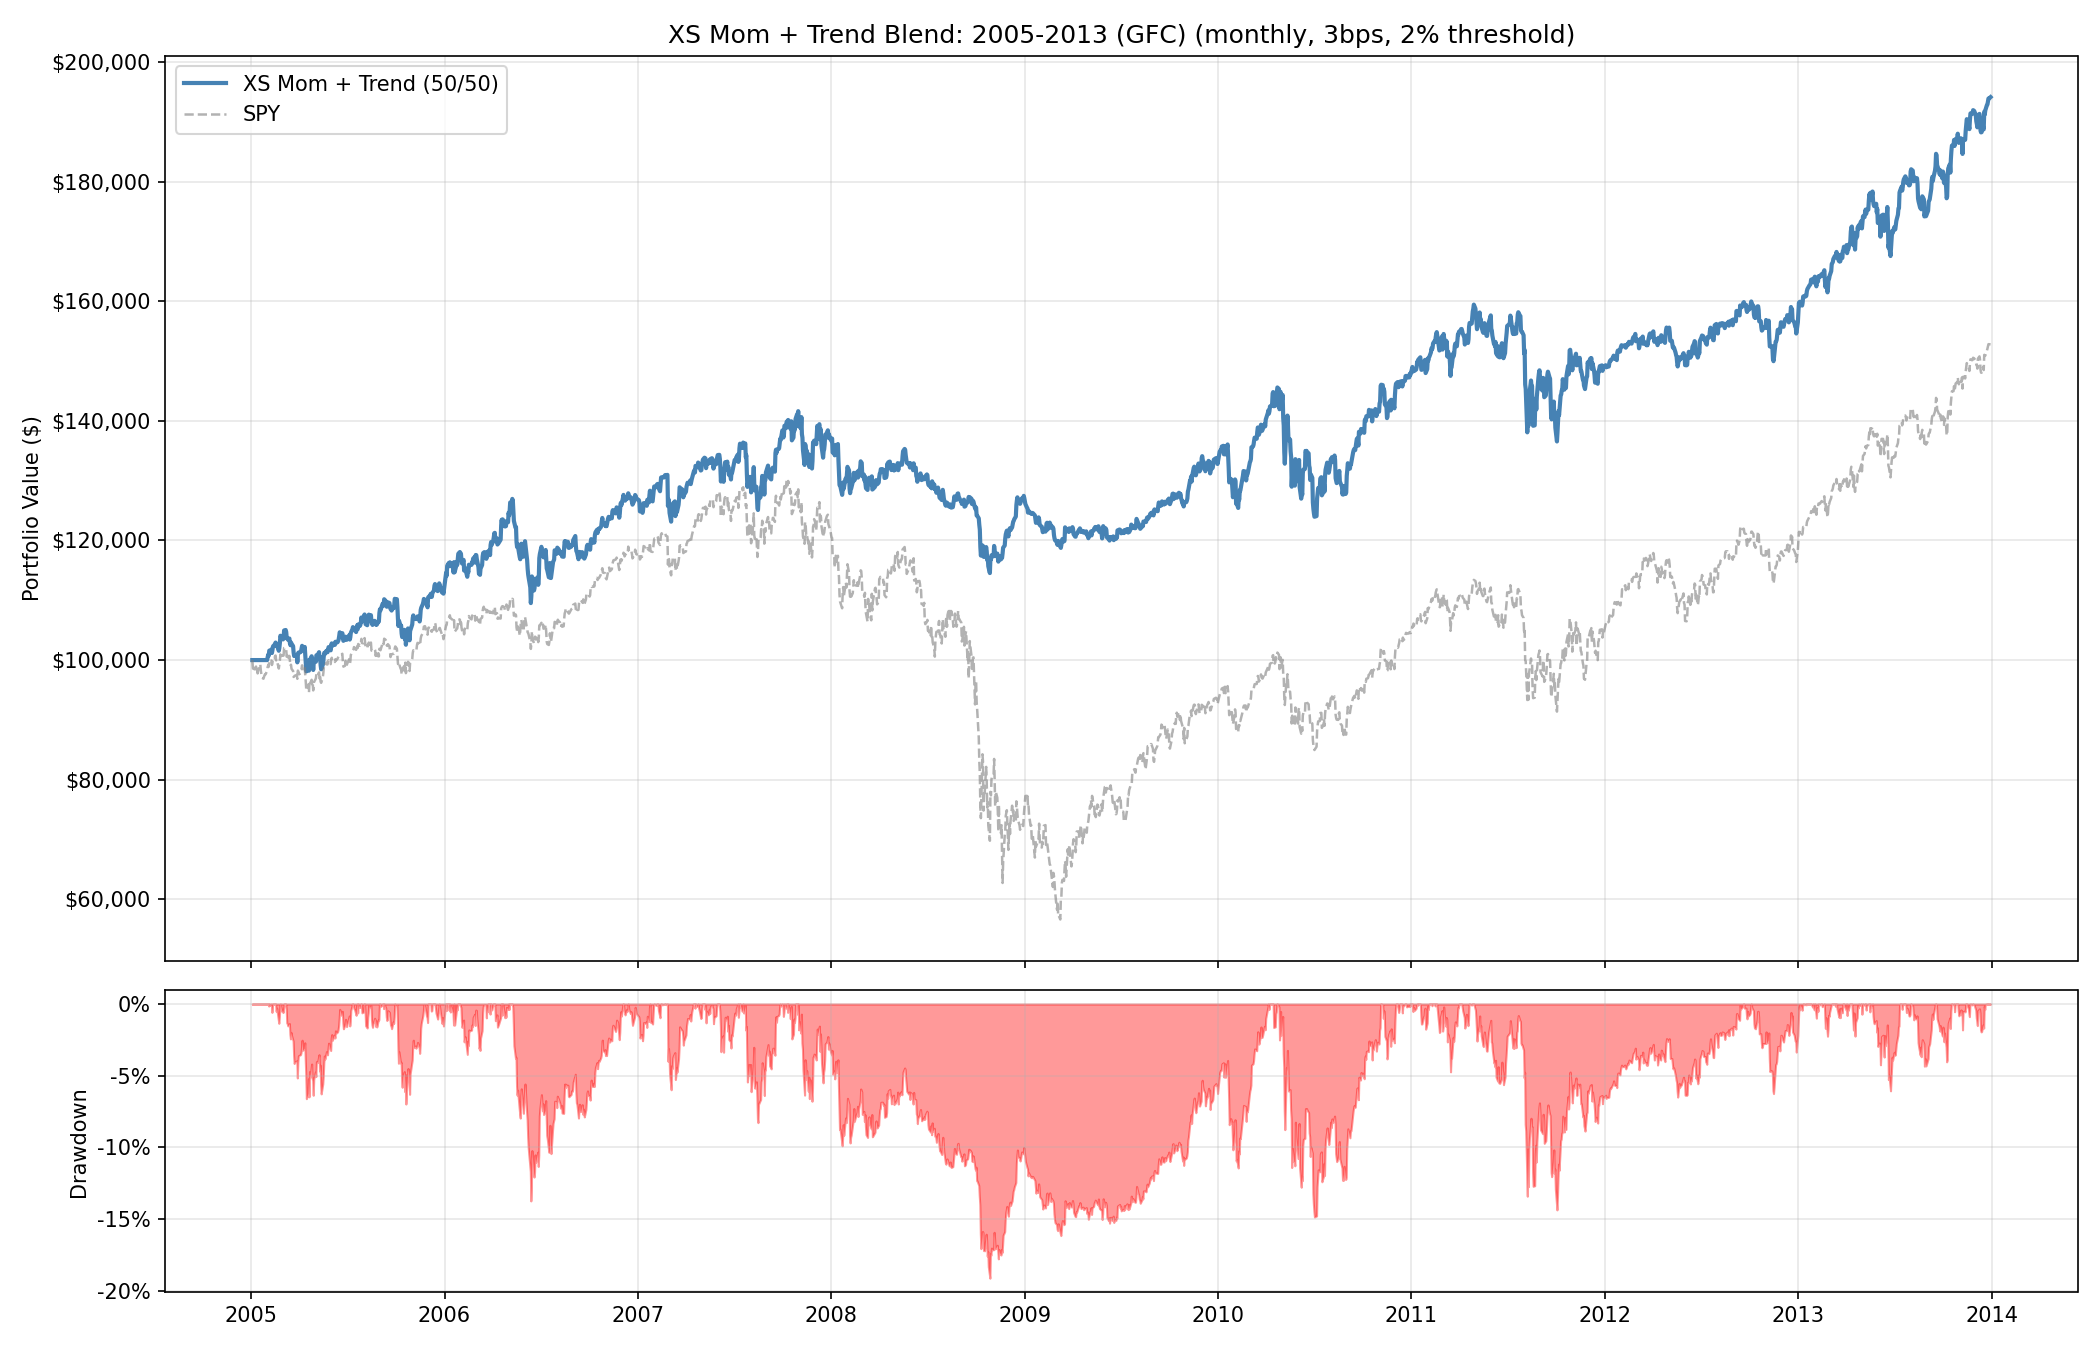
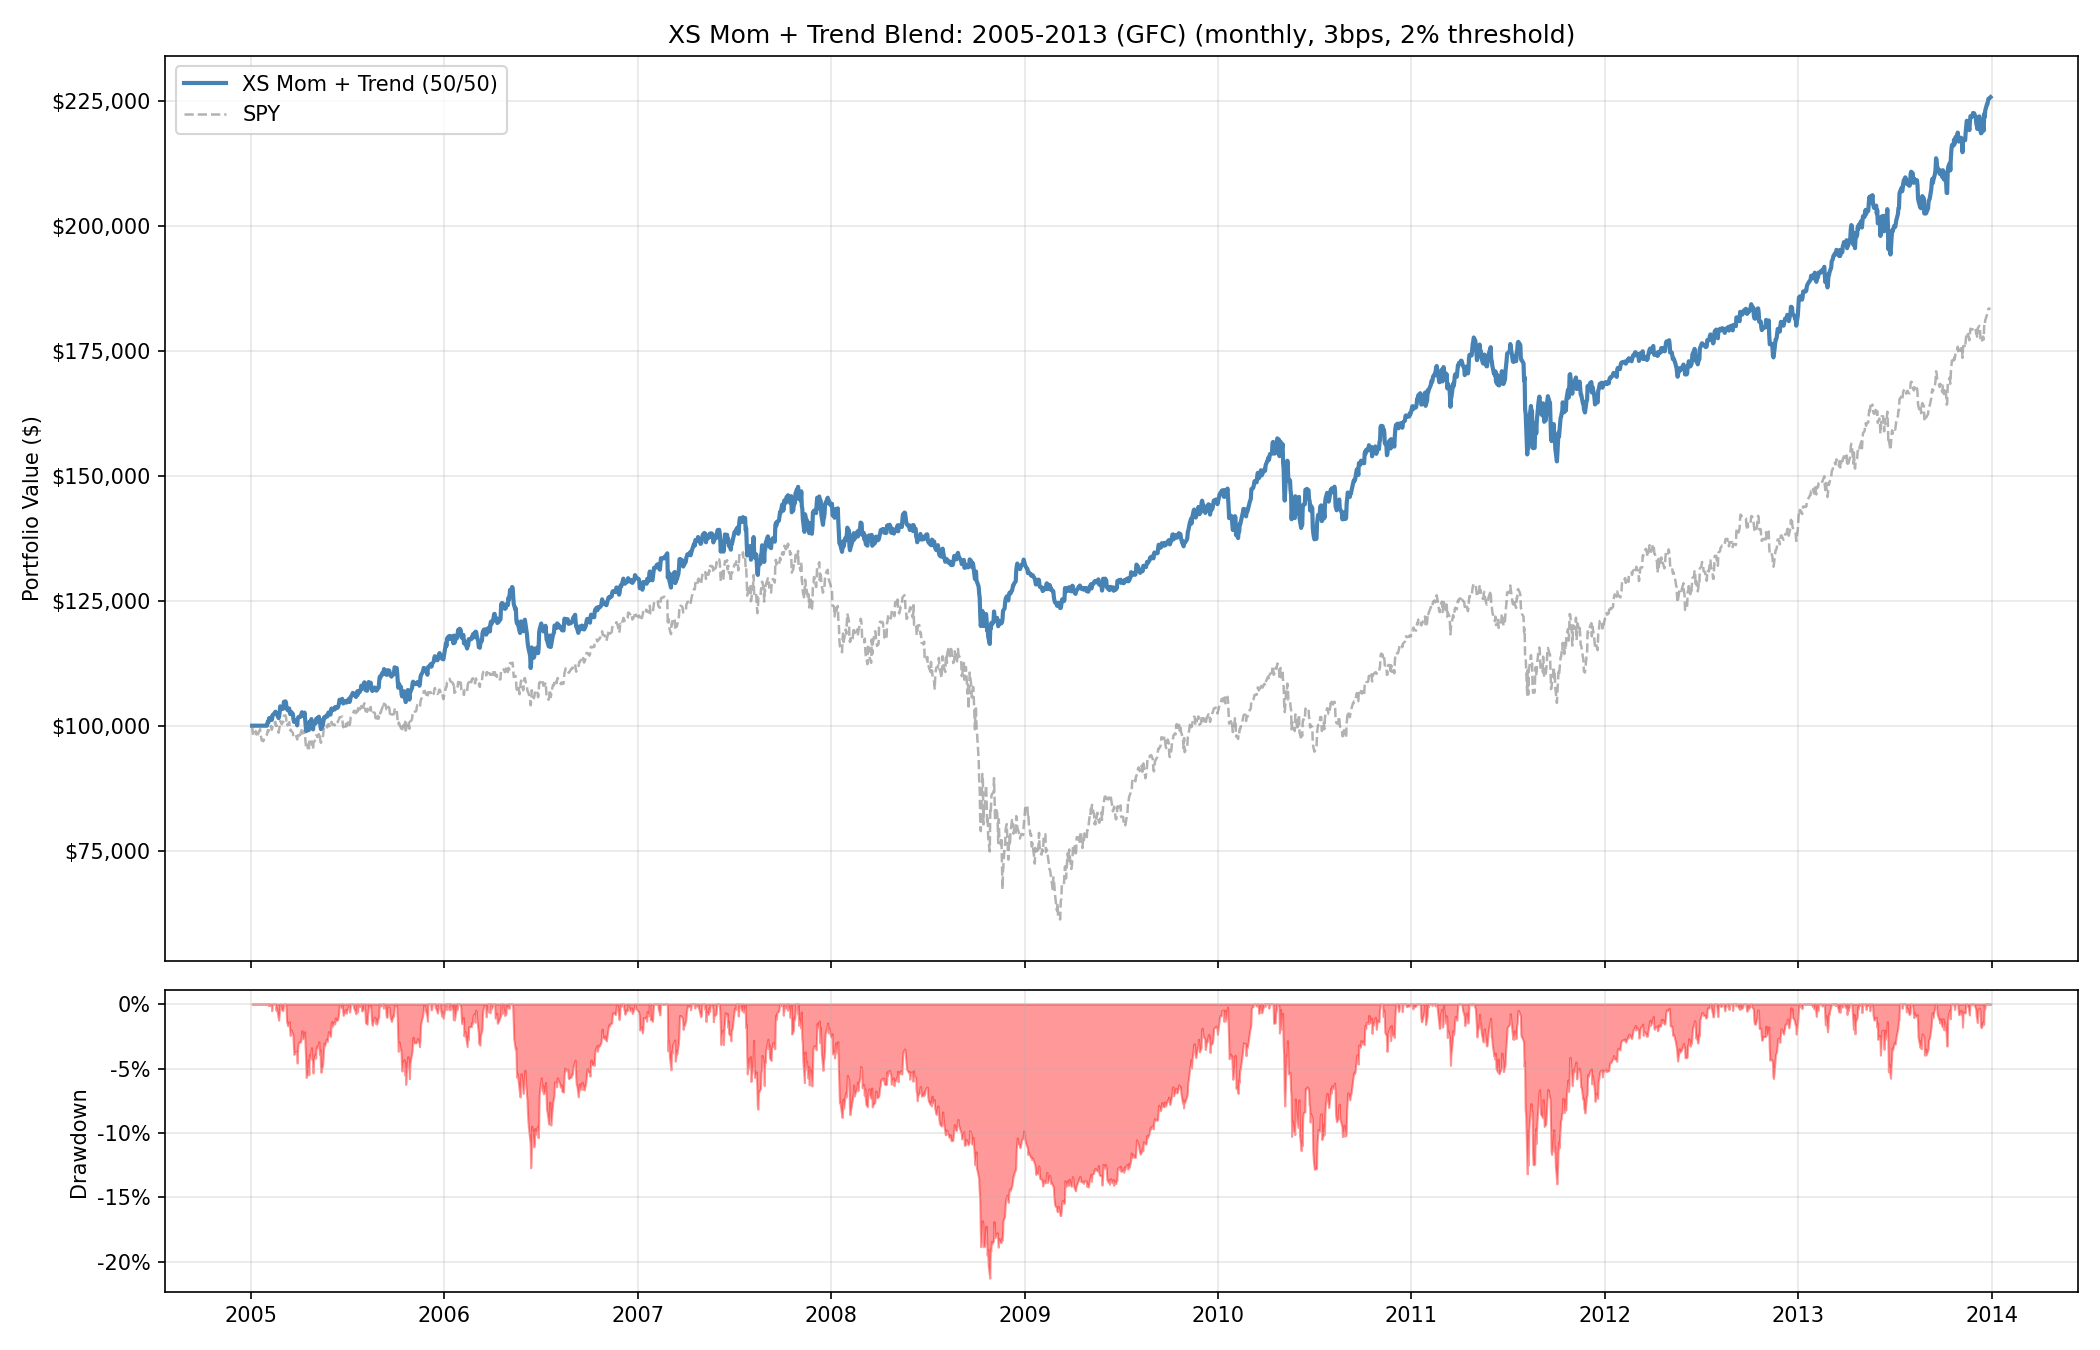
Fix Adj Close bug: switch to dividend-adjusted prices throughout
Changed fetch_prices to use auto_adjust=True, so the Close column
now reflects total return (dividends + price appreciation) rather
than just price return. All downstream code references df["Close"]
which is now automatically adjusted.

Impact on blend results (corrected vs unadjusted):

  Period          Sharpe (old)  Sharpe (new)  CAGR (old)  CAGR (new)
  2005-2013         0.67          0.84          7.7%        9.5%
  2014-2019         0.61          0.78          6.5%        7.8%
  2020-2026         0.60          0.69          8.5%        9.5%

The correction added ~1.5-2% annual return (roughly the weighted
average yield of the portfolio: SPY ~1.5%, TLT ~3%, GLD 0%).
Sharpe improved by 0.09-0.17 because dividends add return without
adding much volatility.

The trend following component benefits most: TLT's 3% yield was
previously invisible, causing the signal to exit bonds that were
actually generating positive total returns. With adjusted prices,
the trend signal correctly identifies bonds in a carry-plus-
appreciation regime.

SPY benchmark returns also increased (from +53/76/105% to
+83/97/124%) since they were equally understated.

Generated with [Devin](https://cli.devin.ai/docs)

diff --git a/src/data/prices.py b/src/data/prices.py
@@ -30,10 +30,14 @@ def fetch_prices(
     end: str | None = None,
     use_cache: bool = True,
 ) -> pd.DataFrame:
-    """Fetch daily OHLCV data for *ticker*.
+    """Fetch daily OHLCV data for *ticker* (dividend-adjusted).
+
+    Uses auto_adjust=True so all prices (Open, High, Low, Close) are
+    adjusted for dividends and splits.  This means Close reflects total
+    return, not just price return.
 
     Returns a DataFrame indexed by date with columns:
-        Open, High, Low, Close, Adj Close, Volume
+        Open, High, Low, Close, Volume
     """
     if end is None:
         end = datetime.now().strftime("%Y-%m-%d")
@@ -44,7 +48,7 @@ def fetch_prices(
     if use_cache and cp.exists():
         return pd.read_parquet(cp)
 
-    df = yf.download(ticker, start=start, end=end, auto_adjust=False, progress=False, session=get_session())
+    df = yf.download(ticker, start=start, end=end, auto_adjust=True, progress=False, session=get_session())
     if df.empty:
         raise ValueError(f"No price data returned for {ticker}")
 

diff --git a/AGENTS.md b/AGENTS.md
@@ -4,9 +4,14 @@
 - **Activate venv**: `source .venv/Scripts/activate` (Windows/Git Bash) or `source .venv/bin/activate` (Linux/Mac)
 - **Install deps**: `pip install -r requirements.txt`
 - **Smoke test**: `python -m tests.smoke_test`
+- **Production backtest**: `python run_blend.py`
+- **Clear cache**: `rm -f data/cache/*.parquet` (required after changing price fetch settings)
 
 ## Architecture
-- All strategies implement `generate_signals(date, universe, lookback) -> dict[str, float]`
-- Price data is cached as parquet in `data/cache/` to avoid redundant API calls
+- All strategies implement `generate_signals(date, universe, lookback) -> dict[str, float] | None`
+- Return `None` to keep existing positions; return `{}` to go to cash
+- Price data uses `auto_adjust=True` (dividend-adjusted OHLCV) and is cached as parquet in `data/cache/`
 - `src/backtest/engine.py` is the core loop: fetch data -> walk forward -> rebalance -> compute equity
+- Engine tracks share counts (not weights) between rebalances -- positions drift with prices
+- `rebalance_threshold` parameter skips trades below a weight-change minimum (default 0, set to 0.02 for production)
 - Analysis modules in `src/analysis/` are standalone and can be used outside the backtest engine

diff --git a/README.md b/README.md
@@ -109,11 +109,13 @@ src/
 
 ### Blend: XS Momentum + Trend Following (50/50)
 
+All prices are dividend-adjusted (total return). Costs at 3bps, 2% rebalance threshold.
+
 | Period | Return | CAGR | Sharpe | Max DD | Costs | SPY |
 |---|---|---|---|---|---|---|
-| 2005-2013 (GFC) | +94% | 7.7% | 0.67 | -19% | $1,078 | +53% |
-| 2014-2019 | +45% | 6.5% | 0.61 | -21% | $963 | +76% |
-| 2020-2026 | +65% | 8.5% | 0.60 | -25% | $954 | +105% |
+| 2005-2013 (GFC) | +126% | 9.5% | 0.84 | -21% | $1,099 | +83% |
+| 2014-2019 | +57% | 7.8% | 0.78 | -19% | $839 | +97% |
+| 2020-2026 | +75% | 9.5% | 0.69 | -24% | $1,033 | +124% |
 
 The blend underperforms SPY in the two bull-market periods (2014-2019, 2020-2026) because it holds bonds and gold via the trend component. It outperforms in 2005-2013 because trend following exits equities during the 2008 crash. The max drawdown (-19% to -25%) is far shallower than SPY (-55% in 2008).
 
